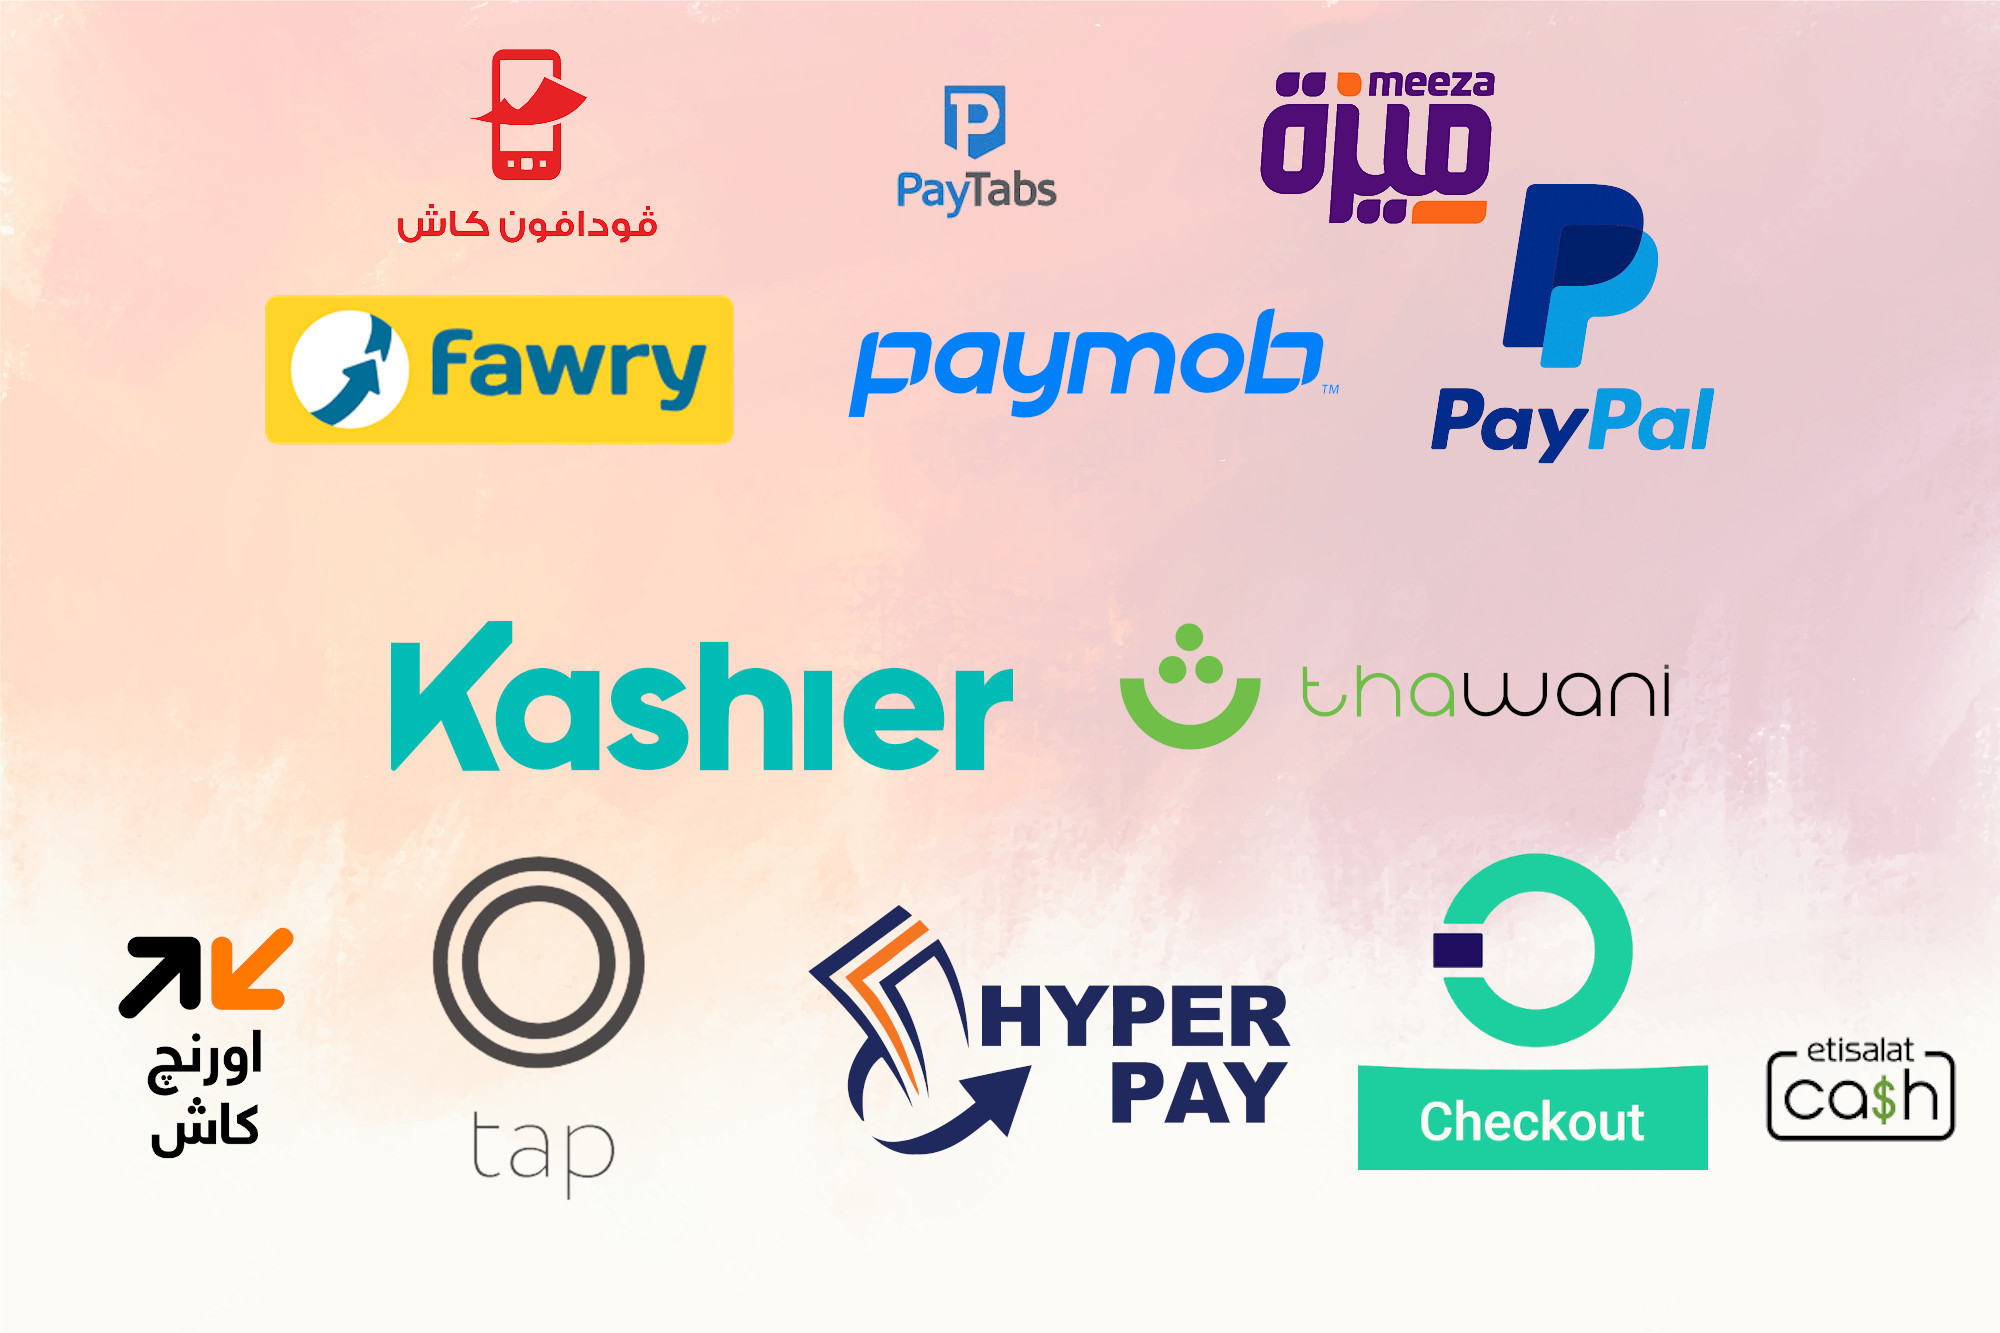
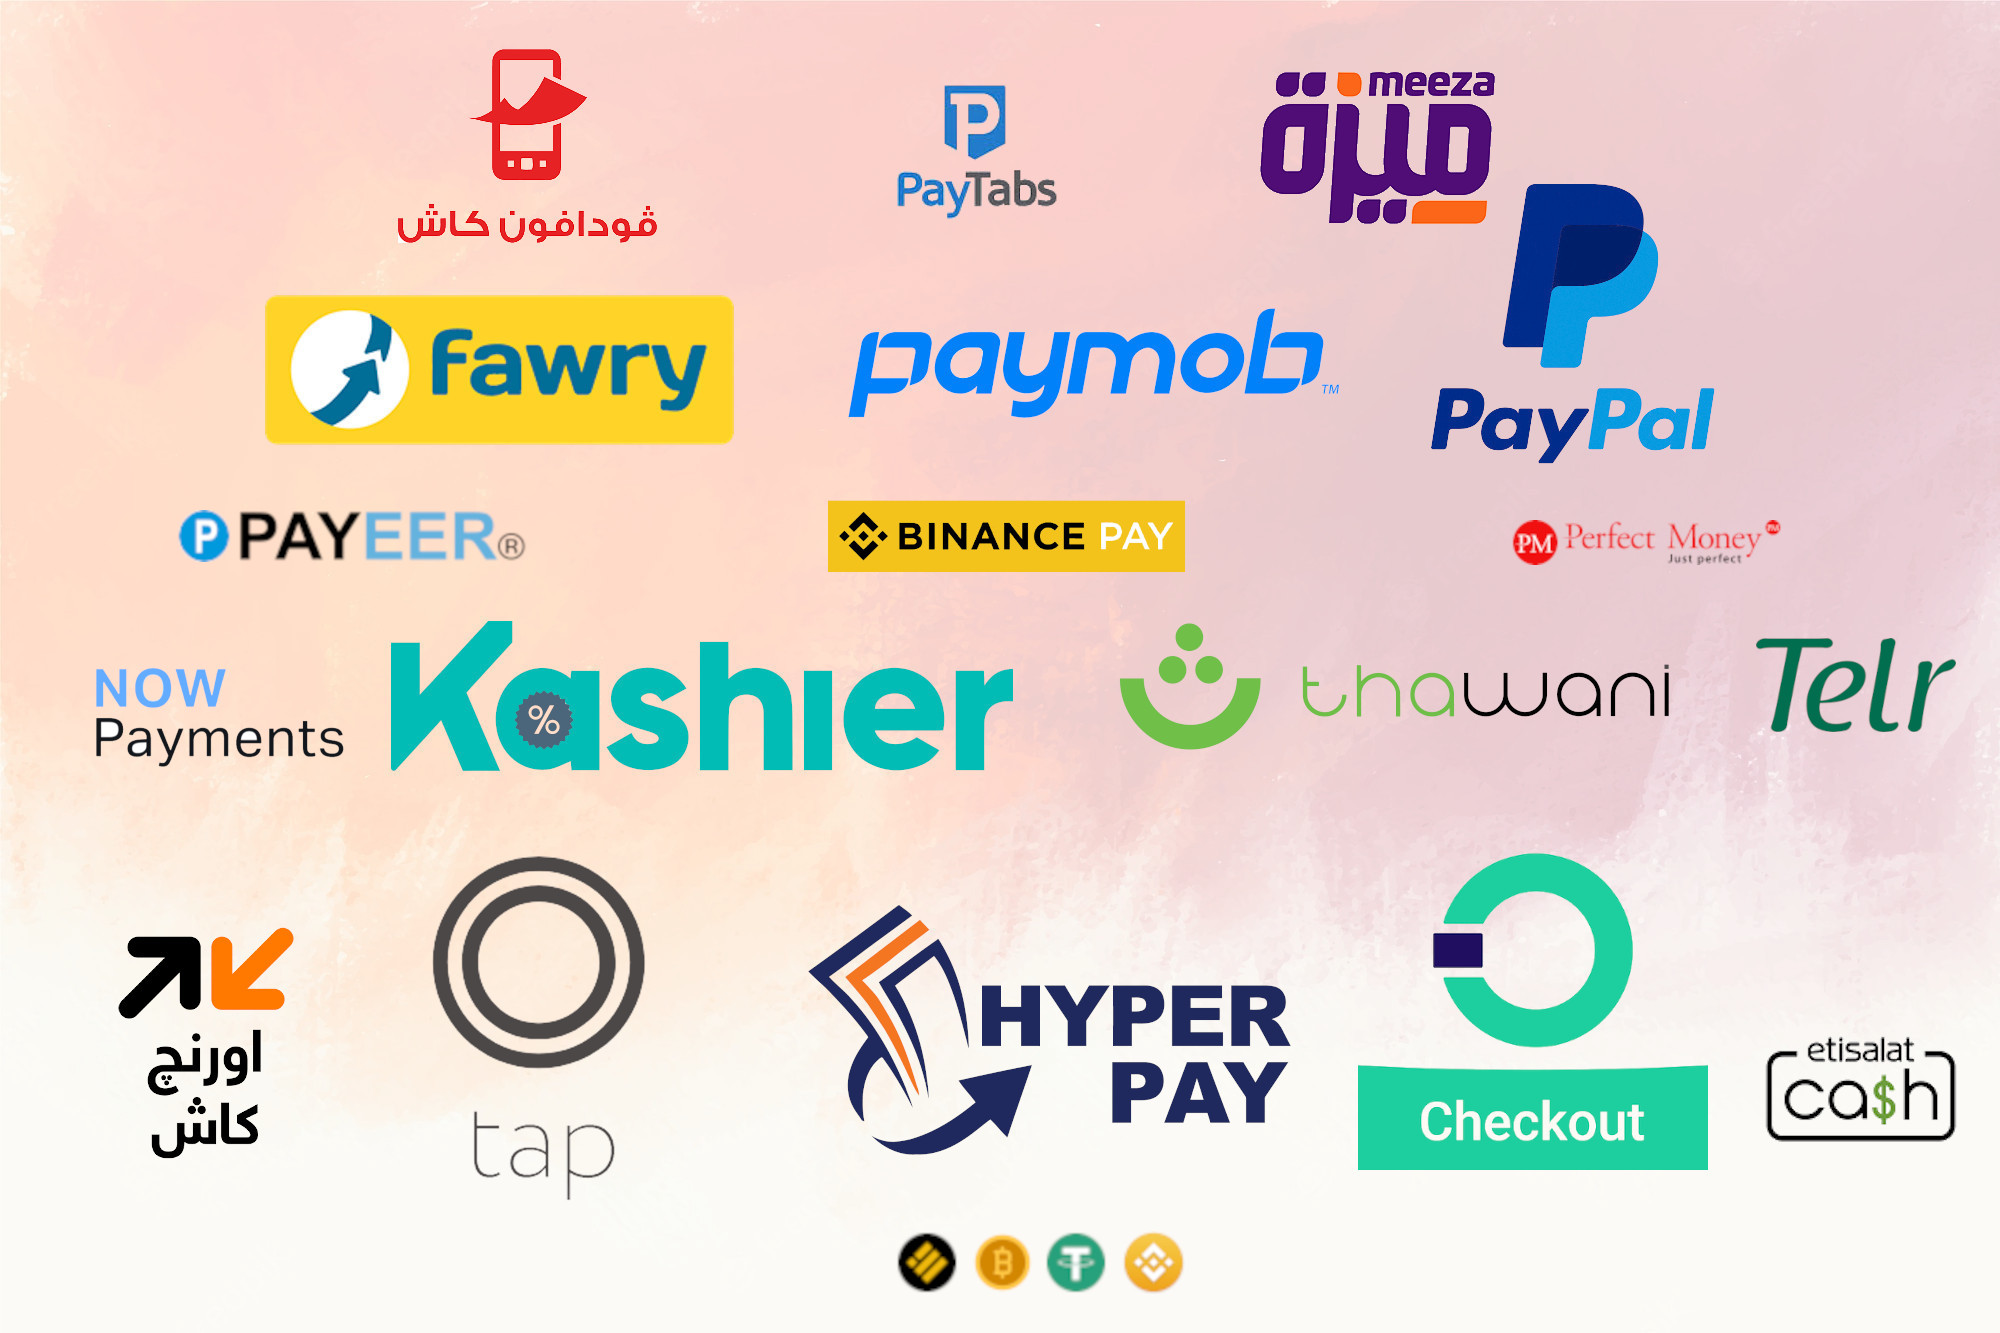
updates

diff --git a/README.md b/README.md
@@ -5,7 +5,7 @@
 [![Made With Love](https://img.shields.io/badge/Made%20With-Love-orange.svg)](https://github.com/chetanraj/awesome-github-badges)
 
 Payment Helper of Payment Gateways ( PayPal - Paymob - Fawry - Thawani - WeAccept - Kashier - Hyperpay - Tap - Opay - Paytabs - Vodafone Cash - Orange Money - Meza Wallet - Etisalat Cash)
-![payment-gateways.jpg](https://github.com/nafezly/payments/blob/master/payment-gateways.jpg?raw=true&v=2)
+![payment-gateways.jpg](https://github.com/nafezly/payments/blob/master/payment-gateways.jpg?raw=true&v=3)
 
 
 ## Supported gateways
